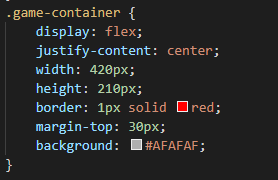
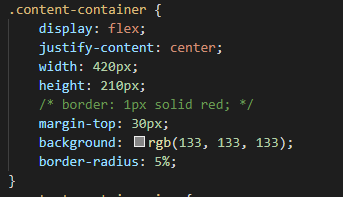
completed new page, fixed a navbar error

diff --git a/Sampling/index.html b/Sampling/index.html
@@ -8,27 +8,26 @@
     <body>
         <div class="nav">
             <a href="index.html" class="nav-item">Enable the Illusion</a>
-            <a href="#" class="navitem">Disable the Illusion</a>
+            <a href="illusions.html" class="nav-item">Disable the Illusion</a>
         </div>
         <div class="header">
                 <h2 class="header-masthead">Optical Illusions with CSS</h2>
                 <img class="header-image" src="img/headerimg.jpg" alt="Picture of an Optical Illusion.">
             </div>
         <div class="content">
-            <div class="content-container">
-                This is the first example of an optical illusion.<br /> All boxes are simply using #AFAFAF to color them this way.
-            </div>
+            <section class="content-container">
+                This is the first example of an optical illusion.<br /> All boxes are simply using #AFAFAF as a base color.
+            </section>
             
-            <div class="content-container">
-                The rightmost side or rightmost box appears to be darker in color. This is due to your eyes automatically compensating for the gradient in the background.
-            </div>
-            <div class="content-container">
+            <section class="content-container">
+                The rightmost side or rightmost box appears to be darker in color. <br />Do not let this fool you; they are quite the same, as is the navbar at the top of the page.
+            </section>
+            <section class="content-container">
                     <img src="img/codeimg.png">
-            </div>
-            <div class="content-container">
+            </section>
+            <section class="content-container">
                     If you want proof to see I'm telling the truth, <br />click "Disable the Illusion", and the gradient will turn off.
-            </div>
-            
+            </section>
         </div>
     </body>
 </html>

diff --git a/Sampling/illusions.html b/Sampling/illusions.html
@@ -1,0 +1,32 @@
+<!DOCTYPE html>
+<html>
+    <head>
+        <title>Sampling</title>
+        <link rel="stylesheet" type="text/css" href="css/illusions.css">
+        <link href="https://fonts.googleapis.com/css?family=Playfair+Display|Poppins|Roboto+Condensed" rel="stylesheet">
+    </head>
+    <body>
+        <div class="nav">
+            <a href="index.html" class="nav-item">Enable the Illusion</a>
+            <a href="illusions.html" class="nav-item">Disable the Illusion</a>
+        </div>
+        <div class="header">
+            <h2 class="header-masthead">Optical Illusions with CSS</h2>
+            <img class="header-image" src="img/headerimg.jpg" alt="Picture of an Optical Illusion.">
+        </div>
+        <div class="content">
+            <section class="content-container">
+                As can be seen, the boxes are now a solid color.<br /> 
+                I've removed the gradient from the navbar as well. They were also #AFAFAF.
+            </section>
+            <section class="content-container">
+                <img src="img/codeimg.png">
+            </section>
+              <section class="content-container">
+                Interesting, right? The contrast between black and white
+                causes our eyes to try to compensate for the difference and
+                as result, our eyes become "confused".
+            </section>
+        </div>
+    </body>
+</html>

diff --git a/Sampling/css/illusions.css b/Sampling/css/illusions.css
@@ -10,7 +10,7 @@ h6 {
 }
 
 body {
-    background: linear-gradient(90deg, #363636, #FFFFFF);
+    background:#AFAFAF;
     font-family: 'Poppins', sans-serif;
 }
 
@@ -28,28 +28,17 @@ body {
     top: 0;
     z-index: 1;
     overflow: hidden;
-    background: linear-gradient(90deg, #363636, #FFFFFF);
+    background: #AEAEAE;
+        /* border: 1px solid red; */
 }
-
-/* Mobile support for body and nav */
-@media (max-width: 480px) {
-    body {
-        background: linear-gradient(180deg, #363636, #FFFFFF);
-    }
-    .nav {
-        background: #363636;
-    }
-}
-/* Navbar CSS continues here */
-
-.nav a {
+.nav-item {
     text-decoration: none;
     color: rgb(133, 133, 133);
     margin: 0px 10px;
 }
-
 /* This is where any container related CSS is stored. */
 .content {
+    margin-top: 80px;
     display: flex;
     justify-content: space-around;
     flex-flow: row wrap;
@@ -67,13 +56,11 @@ body {
     background: rgb(133, 133, 133);
     border-radius: 5%;
 }
-
 .content-container img {
     width: 100%;
     height: 100%;
     border-radius: 5%;
 }
-
 /* This is where the header CSS is stored. */
 .header {
     display: flex;
